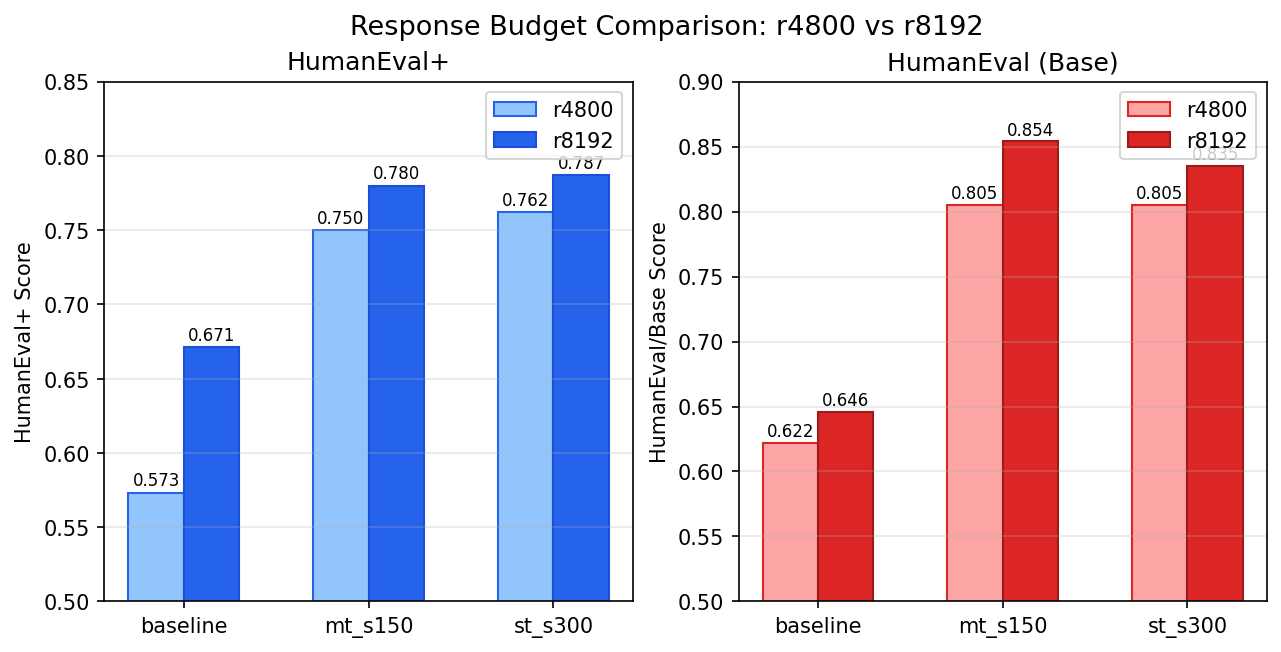
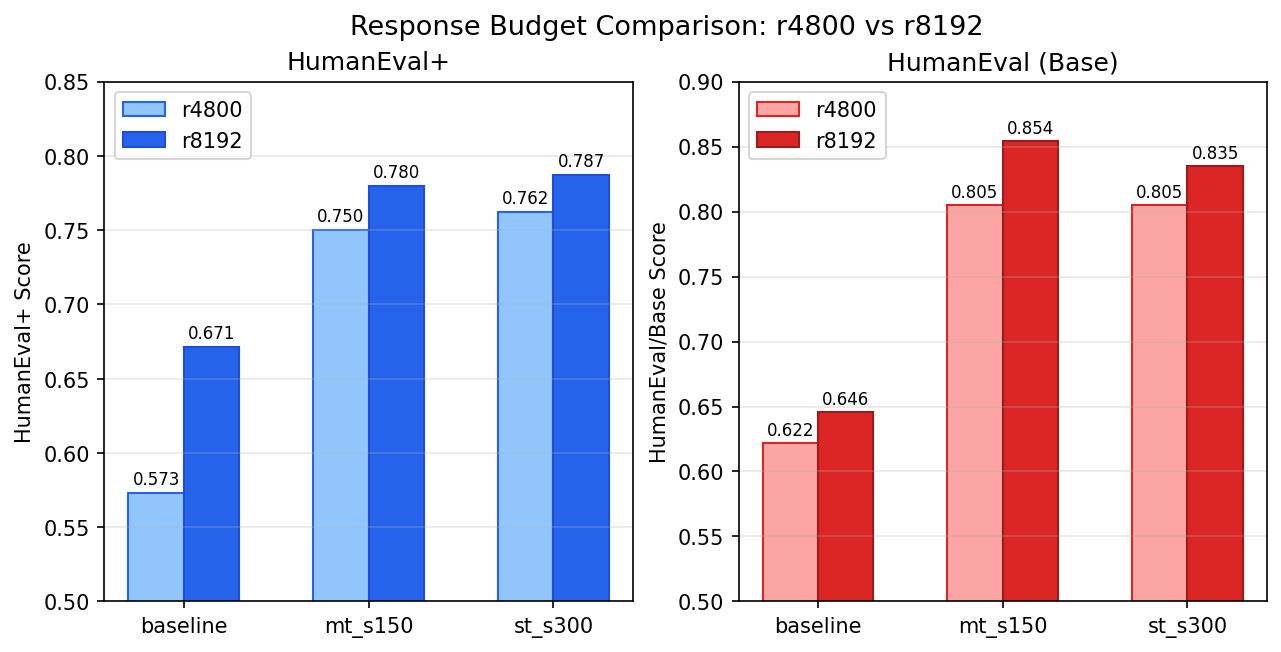
评估图改2x2折线图 + 修r8192表格残留 + 补日志缺失说明

diff --git a/scripts/plot_report.py b/scripts/plot_report.py
@@ -244,59 +244,72 @@ def plot_correction_rates():
 
 
 # ============================================================
-# 图 5: 评估结果柱状图 - 拆成两张子图
+# 图 5: 评估结果 2x2 折线图
+# 上=Base, 下=HEval+, 左=单轮评估, 右=多轮评估
+# 每图中两条线: 多轮训练 checkpoints vs 单轮训练 checkpoints
 # ============================================================
 def plot_eval_bars():
-    # 多轮训练 checkpoints
-    mt_cks = ['baseline', 's100', 's150', 's200', 's250', 's300']
-    mt_single = [0.561, 0.677, 0.732, 0.695, 0.720, 0.677]  # 单轮评估 HEval+
-    mt_multi  = [0.573, 0.683, 0.750, 0.707, 0.732, 0.701]  # 多轮评估 HEval+
+    steps = [0, 100, 150, 200, 250, 300]
+
+    # 多轮训练 checkpoints (mt_s0=baseline, mt_s100, ..., mt_s300)
+    mt_base_single = [0.610, 0.726, 0.787, 0.750, 0.780, 0.720]
+    mt_base_multi  = [0.622, 0.738, 0.805, 0.768, 0.799, 0.750]
+    mt_heval_single = [0.561, 0.677, 0.732, 0.695, 0.720, 0.677]
+    mt_heval_multi  = [0.573, 0.683, 0.750, 0.707, 0.732, 0.701]
 
     # 单轮训练 checkpoints
-    st_cks = ['baseline', 's100', 's150', 's200', 's250', 's300']
-    st_single = [0.561, 0.665, 0.665, 0.683, 0.689, 0.732]
-    st_multi  = [0.573, 0.689, 0.683, 0.695, 0.695, 0.762]
+    st_base_single = [0.610, 0.726, 0.738, 0.744, 0.744, 0.768]
+    st_base_multi  = [0.622, 0.750, 0.762, 0.756, 0.756, 0.805]
+    st_heval_single = [0.561, 0.665, 0.665, 0.683, 0.689, 0.732]
+    st_heval_multi  = [0.573, 0.689, 0.683, 0.695, 0.695, 0.762]
 
-    fig, (ax1, ax2) = plt.subplots(1, 2, figsize=(12, 5), sharey=True)
+    fig, axes = plt.subplots(2, 2, figsize=(12, 9), sharex=True)
 
-    width = 0.3
+    marker_kw = dict(markersize=7, linewidth=2)
+    mt_style = dict(color='#2563eb', marker='o', label='Multi-turn Trained')
+    st_style = dict(color='#dc2626', marker='s', label='Single-turn Trained')
 
-    # 左图：多轮训练
-    x1 = np.arange(len(mt_cks))
-    ax1.bar(x1 - width/2, mt_single, width, label='Single-turn Eval', color='#60a5fa', edgecolor='#2563eb')
-    ax1.bar(x1 + width/2, mt_multi,  width, label='Multi-turn Eval',  color='#f87171', edgecolor='#dc2626')
-    ax1.set_title('Multi-turn GRPO Trained', fontsize=12, fontweight='bold')
-    ax1.set_xticks(x1)
-    ax1.set_xticklabels(mt_cks)
-    ax1.set_ylabel('HumanEval+ Score')
-    ax1.legend(loc='lower right')
-    ax1.set_ylim(0.5, 0.8)
-    ax1.grid(True, axis='y', alpha=0.3)
-    # 标数值
-    for i in range(len(mt_cks)):
-        ax1.text(i - width/2, mt_single[i] + 0.004, f'{mt_single[i]:.3f}', ha='center', fontsize=7)
-        ax1.text(i + width/2, mt_multi[i]  + 0.004, f'{mt_multi[i]:.3f}',  ha='center', fontsize=7)
-    # 标最佳
-    best_idx = np.argmax(mt_multi)
-    ax1.bar(x1[best_idx] + width/2, mt_multi[best_idx], width, color='#f87171', edgecolor='#dc2626', linewidth=2.5)
+    # Top-left: Base, Single-turn Eval
+    ax = axes[0][0]
+    ax.plot(steps, mt_base_single, **mt_style, **marker_kw)
+    ax.plot(steps, st_base_single, **st_style, **marker_kw)
+    ax.set_ylabel('Score')
+    ax.set_title('HumanEval Base (Single-turn Eval)')
+    ax.legend(fontsize=9)
+    ax.grid(True, alpha=0.3)
+    ax.set_ylim(0.55, 0.85)
 
-    # 右图：单轮训练
-    x2 = np.arange(len(st_cks))
-    ax2.bar(x2 - width/2, st_single, width, label='Single-turn Eval', color='#60a5fa', edgecolor='#2563eb')
-    ax2.bar(x2 + width/2, st_multi,  width, label='Multi-turn Eval',  color='#f87171', edgecolor='#dc2626')
-    ax2.set_title('Single-turn GRPO Trained', fontsize=12, fontweight='bold')
-    ax2.set_xticks(x2)
-    ax2.set_xticklabels(st_cks)
-    ax2.legend(loc='lower right')
-    ax2.set_ylim(0.5, 0.8)
-    ax2.grid(True, axis='y', alpha=0.3)
-    for i in range(len(st_cks)):
-        ax2.text(i - width/2, st_single[i] + 0.004, f'{st_single[i]:.3f}', ha='center', fontsize=7)
-        ax2.text(i + width/2, st_multi[i]  + 0.004, f'{st_multi[i]:.3f}',  ha='center', fontsize=7)
-    best_idx2 = np.argmax(st_multi)
-    ax2.bar(x2[best_idx2] + width/2, st_multi[best_idx2], width, color='#f87171', edgecolor='#dc2626', linewidth=2.5)
+    # Top-right: Base, Multi-turn Eval
+    ax = axes[0][1]
+    ax.plot(steps, mt_base_multi, **mt_style, **marker_kw)
+    ax.plot(steps, st_base_multi, **st_style, **marker_kw)
+    ax.set_title('HumanEval Base (Multi-turn Eval)')
+    ax.legend(fontsize=9)
+    ax.grid(True, alpha=0.3)
+    ax.set_ylim(0.55, 0.85)
 
-    fig.suptitle('HumanEval+ Scores: Single-turn vs Multi-turn Evaluation', fontsize=13)
+    # Bottom-left: HEval+, Single-turn Eval
+    ax = axes[1][0]
+    ax.plot(steps, mt_heval_single, **mt_style, **marker_kw)
+    ax.plot(steps, st_heval_single, **st_style, **marker_kw)
+    ax.set_xlabel('Training Step')
+    ax.set_ylabel('Score')
+    ax.set_title('HumanEval+ (Single-turn Eval)')
+    ax.legend(fontsize=9)
+    ax.grid(True, alpha=0.3)
+    ax.set_ylim(0.50, 0.80)
+
+    # Bottom-right: HEval+, Multi-turn Eval
+    ax = axes[1][1]
+    ax.plot(steps, mt_heval_multi, **mt_style, **marker_kw)
+    ax.plot(steps, st_heval_multi, **st_style, **marker_kw)
+    ax.set_xlabel('Training Step')
+    ax.set_title('HumanEval+ (Multi-turn Eval)')
+    ax.legend(fontsize=9)
+    ax.grid(True, alpha=0.3)
+    ax.set_ylim(0.50, 0.80)
+
+    fig.suptitle('Evaluation Scores Across Checkpoints', fontsize=14, fontweight='bold')
     fig.savefig(OUT / 'eval_heval_plus.png')
     plt.close(fig)
     print(f"  -> eval_heval_plus.png")
@@ -324,12 +337,12 @@ def plot_budget_comparison():
     ax1.set_title('HumanEval+')
     ax1.set_xticks(x)
     ax1.set_xticklabels(checkpoints)
-    ax1.legend()
+    ax1.legend(loc='upper left')
     ax1.set_ylim(0.5, 0.85)
     ax1.grid(True, axis='y', alpha=0.3)
     for i, (v1, v2) in enumerate(zip(heval_4800, heval_8192)):
-        ax1.text(i - width/2, v1 + 0.005, f'{v1:.3f}', ha='center', fontsize=8)
-        ax1.text(i + width/2, v2 + 0.005, f'{v2:.3f}', ha='center', fontsize=8)
+        ax1.text(i - width/2, v1 + 0.006, f'{v1:.3f}', ha='center', fontsize=8)
+        ax1.text(i + width/2, v2 + 0.006, f'{v2:.3f}', ha='center', fontsize=8)
 
     # HumanEval/Base
     ax2.bar(x - width/2, base_4800, width, label='r4800', color='#fca5a5', edgecolor='#dc2626')
@@ -338,12 +351,12 @@ def plot_budget_comparison():
     ax2.set_title('HumanEval (Base)')
     ax2.set_xticks(x)
     ax2.set_xticklabels(checkpoints)
-    ax2.legend()
+    ax2.legend(loc='upper left')
     ax2.set_ylim(0.5, 0.9)
     ax2.grid(True, axis='y', alpha=0.3)
     for i, (v1, v2) in enumerate(zip(base_4800, base_8192)):
-        ax2.text(i - width/2, v1 + 0.005, f'{v1:.3f}', ha='center', fontsize=8)
-        ax2.text(i + width/2, v2 + 0.005, f'{v2:.3f}', ha='center', fontsize=8)
+        ax2.text(i - width/2, v1 + 0.006, f'{v1:.3f}', ha='center', fontsize=8)
+        ax2.text(i + width/2, v2 + 0.006, f'{v2:.3f}', ha='center', fontsize=8)
 
     fig.suptitle('Response Budget Comparison: r4800 vs r8192', fontsize=13)
     fig.savefig(OUT / 'budget_comparison.png')

diff --git a/REPORT.md b/REPORT.md
@@ -187,7 +187,7 @@
 | 251-275 | 17.4% | 43.5% | 3.5% | 5.3% | 52.4% | 0.416 |
 | 276-300 | 16.7% | **45.2%** | 3.2% | 4.8% | 53.4% | 0.429 |
 
-> 注：step 1-225 日志因训练重启有部分重叠数据，但 T2 纠错率的上升趋势是可靠的。step 200-300 为续训数据，无重叠。
+> 注：step 1-225 日志实际包含 step 1-124 的逐样本数据（7980 条），step 125-200 的日志因训练重启丢失。step 201-300 为续训日志（6400 条，无缺失）。wandb 步级指标（reward、KL 等）覆盖完整 300 步，不受日志缺失影响。
 
 **关键观察：T1 成功率在训练全程基本不变（10-19%），提升主要来自 T2 纠错能力。** T2 纠错率从 7% 稳步提升到 45%，说明模型确实在学会"看到错误反馈后修正代码"。但 T3 纠错率始终很低（1.7%-4.0%），没有上升趋势——T2 都没修好的题，第三轮也很难修好。
 
@@ -254,6 +254,10 @@
 > HumanEval 共 164 题，因此 0.006 约等于 1 道题，0.030 约等于 5 道题。本文对 0.01–0.03 量级的差异按趋势解释，不作为强显著性结论。
 
 ![Evaluation Results: HumanEval+](report_figures/eval_heval_plus.png)
+
+#### response_length=8192 多轮评估（探索实验）
+
+| checkpoint | r4800 HEval+ | r8192 HEval+ | r8192 提升 | r4800 T1 | r8192 T1 | T1 新增 | r4800 NO_CODE | r8192 NO_CODE | NO_CODE 减少 |
 |---|---|---|---|---|---|---|---|---|---|
 | baseline | 0.573 | **0.671** | **+0.098** | 100 | 113 | +13 | 52 | 33 | -19 |
 | mt_s150 | 0.750 | **0.780** | **+0.030** | 129 | 135 | +6 | 21 | 8 | -13 |
